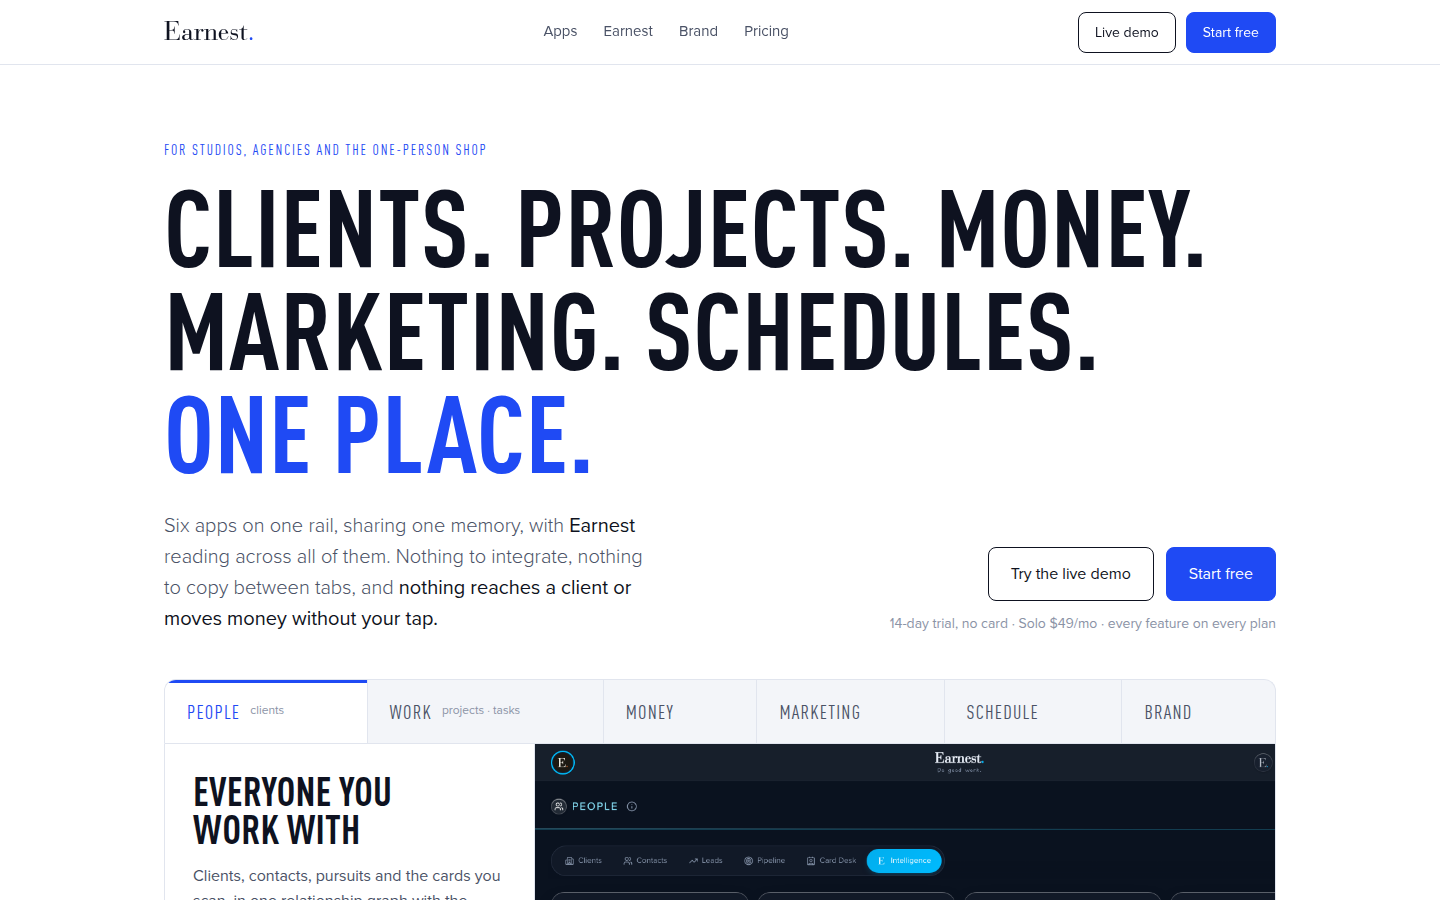
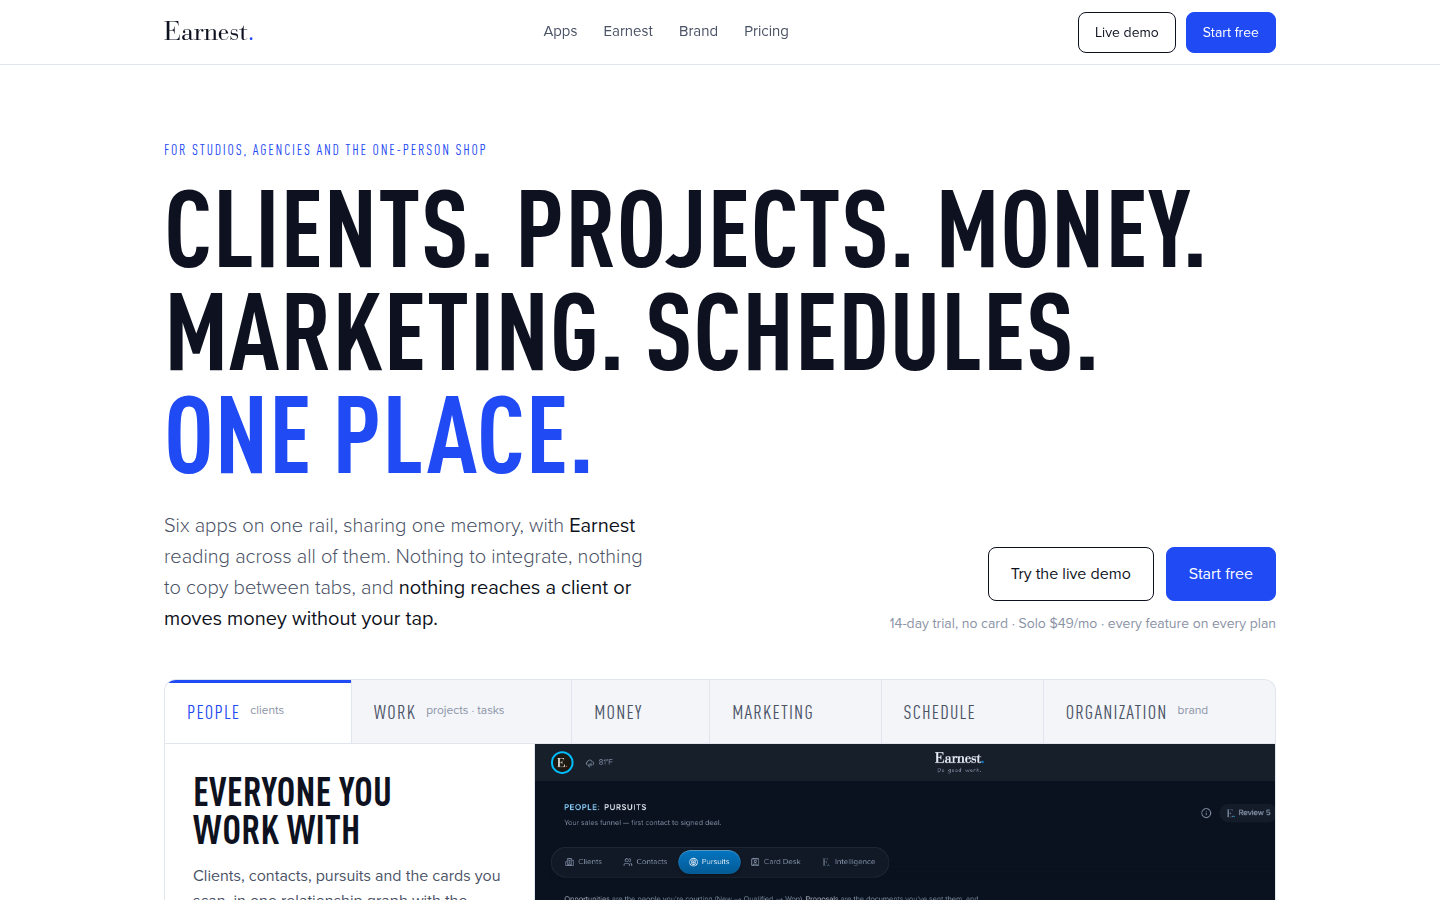
fix(mockups): use only the September captures; document the July gap
latest/ is a mirror, not one capture: 39 of its 64 files are still July
2026 shots of the old shell, and seven of them had leaked into the
concepts. Every screenshot the mockups reference is now from the
1 September 2026 run. Where the September pass has no capture (calendar,
organization brand settings, proposal preview) the concepts use the
nearest September screen or a coded card, and the README lists each swap
so the capture script can fill the gaps.

Claude-Session: https://claude.ai/code/session_0118qsSvWxcWCHXC2y1mfa98

diff --git a/mockups/2026-09-redesign/concept-b.html b/mockups/2026-09-redesign/concept-b.html
@@ -231,17 +231,17 @@ footer a{margin-right:18px}
         <button class="tab" role="tab" aria-selected="false" data-i="2">Money</button>
         <button class="tab" role="tab" aria-selected="false" data-i="3">Marketing</button>
         <button class="tab" role="tab" aria-selected="false" data-i="4">Schedule</button>
-        <button class="tab" role="tab" aria-selected="false" data-i="5">Brand</button>
+        <button class="tab" role="tab" aria-selected="false" data-i="5">Organization <span class="k">brand</span></button>
       </div>
       <div class="stage">
         <div class="side" id="side"></div>
         <div class="view" id="view">
-          <img src="shots/people-dashboard.png" alt="People app: clients, contacts, pursuits and intelligence" class="on">
-          <img src="shots/project-workspace.png" alt="Work app: a project workspace" loading="lazy">
-          <img src="shots/financials-overview.png" alt="Money app: cash flow, AR aging" loading="lazy">
+          <img src="shots/pursuits-lens.png" alt="People app: pursuits from first contact to signed deal" class="on">
+          <img src="shots/shell-dock.png" alt="Work app: projects on a timeline" loading="lazy">
+          <img src="shots/revenue-certainty.png" alt="Money app: revenue certainty, banked to cold" loading="lazy">
           <img src="shots/studio-river.png" alt="Marketing: the Content Studio river" loading="lazy">
-          <img src="shots/scheduler-day.png" alt="Calendar and scheduling" loading="lazy">
-          <img src="shots/organization-branding.png" alt="Organization: brand direction and document theme" loading="lazy">
+          <img src="shots/booking-page.png" alt="A public booking page with the studio card beside it" loading="lazy">
+          <img src="shots/files-floor.png" alt="Organization app: members, teams, files, templates, billing" loading="lazy">
         </div>
       </div>
     </div>
@@ -264,11 +264,11 @@ footer a{margin-right:18px}
     <p class="sub">Every surface is a working one. Approve from the home, send from the proposal, reschedule from a sentence. The numbers below are from the live demo workspace.</p>
     <div class="bento">
       <div class="tile w3"><div class="im"><img src="shots/home-v2.png" alt="The home: Decide, Do, Know" loading="lazy"></div><div class="t"><h3>Tasks, sorted into three piles</h3><p>Decide is what Earnest drafted for you. Do is one tap each. Know needs nothing. Ranked instantly, across every app, with zero AI tokens.</p></div></div>
-      <div class="tile w3"><div class="im"><img src="shots/project-timeline.png" alt="A project timeline" loading="lazy"></div><div class="t"><h3>Projects with real parity</h3><p>Timeline, board, tickets, approvals, meetings, files and time on every project. Move a date and every dependency moves with it.</p></div></div>
+      <div class="tile w3"><div class="im"><img src="shots/approvals-floor.png" alt="Work: the approvals floor" loading="lazy"></div><div class="t"><h3>Projects with real parity</h3><p>Timeline, board, tickets, approvals, meetings, files and time on every project. Work waiting on a yes, and what came back, on one floor.</p></div></div>
       <div class="tile w2"><div class="t"><div class="n">4<small>clients 140+ days quiet</small></div><h3>Clients</h3><p>Pursuits from first contact to closed-won, a deal timeline, and a cold-contact alert before the silence costs you.</p></div></div>
       <div class="tile w2"><div class="t"><div class="n">$12k<small>out · $9.4k past 90 days</small></div><h3>Money</h3><p>Cash flow, AR aging, invoices, payments, expenses and bank sync. Real bookkeeping, sorted by certainty.</p></div></div>
       <div class="tile w2"><div class="t"><div class="n">5<small>posts this week, 4 scheduled</small></div><h3>Marketing</h3><p>A marketing pulse, campaigns, email, and a Content Studio where posts get written in the client’s voice and approved.</p></div></div>
-      <div class="tile w3"><div class="im"><img src="shots/scheduler-day.png" alt="Calendar with follow-ups and pipeline" loading="lazy"></div><div class="t"><h3>Schedules that follow the work</h3><p>Calendar, booking page, instant video, follow-ups, and an AI recap after every meeting that becomes tasks on the right project.</p></div></div>
+      <div class="tile w3"><div class="im"><img src="shots/booking-page.png" alt="A public booking page with the studio card beside it" loading="lazy"></div><div class="t"><h3>Schedules that follow the work</h3><p>A booking page with your card on it, a calendar, instant video, follow-ups, and an AI recap after every meeting that becomes tasks on the right project.</p></div></div>
       <div class="tile w3"><div class="im"><img src="shots/client-portal.png" alt="The client portal" loading="lazy"></div><div class="t"><h3>Yours, all the way to the client</h3><p>A portal where clients approve work, sign, and pay. On Agency, white-labelled so they only ever see you.</p></div></div>
     </div>
   </div>

diff --git a/mockups/2026-09-redesign/concept-a.html b/mockups/2026-09-redesign/concept-a.html
@@ -346,12 +346,12 @@ footer a{margin-right:18px}
     <h2 style="margin-top:14px">Everything it knows,<br>it knows because <span class="pop">you run the studio here.</span></h2>
     <p class="sub">Clients, work, chat, money, marketing and schedules are not integrations. They are the apps on the rail, and Earnest reads across all of them.</p>
     <div class="apps">
-      <a class="app" href="https://app.earnest.guru/try-demo?persona=solo"><div class="im"><img src="shots/people-dashboard.png" alt="People app: clients, contacts, pursuits and intelligence" loading="lazy"></div><div class="l"><b>People</b><span>Clients, contacts, pursuits, cold-contact alerts</span></div></a>
-      <a class="app" href="https://app.earnest.guru/try-demo?persona=solo"><div class="im"><img src="shots/project-workspace.png" alt="Work app: a project workspace" loading="lazy"></div><div class="l"><b>Work</b><span>Projects, tasks, tickets, approvals, time</span></div></a>
-      <a class="app" href="https://app.earnest.guru/try-demo?persona=solo"><div class="im"><img src="shots/scheduler-day.png" alt="Calendar and scheduling" loading="lazy"></div><div class="l"><b>Schedule</b><span>Calendar, meetings, booking page, AI recap</span></div></a>
-      <a class="app" href="https://app.earnest.guru/try-demo?persona=solo"><div class="im"><img src="shots/financials-overview.png" alt="Money app: cash flow overview" loading="lazy"></div><div class="l"><b>Money</b><span>Cash flow, AR aging, invoices, proposals</span></div></a>
+      <a class="app" href="https://app.earnest.guru/try-demo?persona=solo"><div class="im"><img src="shots/pursuits-lens.png" alt="People app: pursuits from first contact to signed deal" loading="lazy"></div><div class="l"><b>People</b><span>Clients, contacts, pursuits, cold-contact alerts</span></div></a>
+      <a class="app" href="https://app.earnest.guru/try-demo?persona=solo"><div class="im"><img src="shots/shell-dock.png" alt="Work app: projects on a timeline" loading="lazy"></div><div class="l"><b>Work</b><span>Projects, tasks, tickets, approvals, time</span></div></a>
+      <a class="app" href="https://app.earnest.guru/try-demo?persona=solo"><div class="im"><img src="shots/booking-page.png" alt="A public booking page with the studio card beside it" loading="lazy"></div><div class="l"><b>Schedule</b><span>Booking page, calendar, meetings, AI recap</span></div></a>
+      <a class="app" href="https://app.earnest.guru/try-demo?persona=solo"><div class="im"><img src="shots/revenue-certainty.png" alt="Money app: revenue certainty, banked to cold" loading="lazy"></div><div class="l"><b>Money</b><span>Certainty, cash flow, AR aging, invoices, proposals</span></div></a>
       <a class="app" href="https://app.earnest.guru/try-demo?persona=solo"><div class="im"><img src="shots/studio-river.png" alt="Marketing Studio river timeline" loading="lazy"></div><div class="l"><b>Marketing</b><span>Pulse, campaigns, email, Content Studio</span></div></a>
-      <a class="app" href="https://app.earnest.guru/try-demo?persona=solo"><div class="im"><img src="shots/organization-branding.png" alt="Organization brand and document theme settings" loading="lazy"></div><div class="l"><b>Brand</b><span>Direction, voice, document themes, white-label</span></div></a>
+      <a class="app" href="https://app.earnest.guru/try-demo?persona=solo"><div class="im"><img src="shots/files-floor.png" alt="Organization app: members, teams, files, templates, billing" loading="lazy"></div><div class="l"><b>Organization</b><span>Brand direction, voice, document themes, white-label</span></div></a>
     </div>
   </div>
 </section>

diff --git a/mockups/2026-09-redesign/concept-c.html b/mockups/2026-09-redesign/concept-c.html
@@ -242,7 +242,7 @@ footer a{margin-right:18px}
               <div><b>You</b><span class="you">Moved one deliverable to phase two. Sent it to the portal for signature.</span></div>
             </div>
           </div>
-          <div class="proof crop"><img src="shots/proposals-preview.png" alt="A proposal preview, themed" loading="lazy"></div>
+          <div class="proof"><div class="card"><div class="h"><span>Proposal · draft · Editorial theme</span><span>Money</span></div><q style="font-family:var(--font-display);font-size:22px;line-height:1.15;margin-bottom:6px">Brand refresh &amp; website</q><q style="color:var(--ink-3);font-size:13px;letter-spacing:.1em;text-transform:uppercase;margin-bottom:12px">Prepared for Helios · #EX-0042</q><q style="margin-bottom:10px">Helios, you asked for a site that books rooms without a phone call. Here is the plan, in three phases, each one something you can see before you pay for the next.</q><div class="row"><span>Phase 1 · Brand identity system</span><span>$6,500</span></div><div class="row"><span>Phase 2 · Booking-first website</span><span>$12,000</span></div><div class="row"><span>Phase 3 · Launch playbook</span><span>$2,800</span></div><div class="act"><a class="btn primary" href="https://app.earnest.guru/try-demo?persona=solo">Send for signature</a><a class="btn" href="#">Edit phases</a></div></div></div>
         </div>
       </article>
 

diff --git a/mockups/2026-09-redesign/index.html b/mockups/2026-09-redesign/index.html
@@ -200,7 +200,7 @@ tr:last-child td,tr:last-child th{border-bottom:0}
     <p>All three are static HTML in <code>mockups/2026-09-redesign/</code> in the marketing repo, built on the same screenshots, fonts, plans and FAQ answers the live site already ships, so any of them ports into <code>SellSheetHome.vue</code> with the existing data files.</p>
   </section>
 
-  <p class="foot">Screenshots are the September 2026 captures from the demo workspaces. Copy uses the demo’s clients (Helios, Pinecrest Clinic, Meridian Law, Atlas Fintech) and its numbers ($12k outstanding, $286k pipeline, 22 items today).</p>
+  <p class="foot">Every screenshot is from the 1 September 2026 capture of the demo workspaces, the current shell. The <code>latest/</code> folder still carries July captures of screens the September pass did not cover (the calendar, the organization brand settings, the proposal preview, the People overview, the Money cash-flow tab); those are not used here, and the mockups use a coded card where no current capture exists. Re-running the capture script against the live demo will fill them. Copy uses the demo’s clients (Helios, Pinecrest Clinic, Meridian Law, Atlas Fintech) and its numbers ($12k outstanding, $286k pipeline, 22 items today).</p>
 </div>
 </body>
 </html>

diff --git a/mockups/2026-09-redesign/README.md b/mockups/2026-09-redesign/README.md
@@ -6,8 +6,31 @@ recommendation. Open `index.html` in a browser; it links to the three concepts.
 
 Nothing in this folder is wired into the Nuxt build. It is static HTML for
 review. `shots/` and `fonts/` are symlinks into `public/screenshots/latest/`
-and `app/assets/css/fonts/`, so the mockups use the same September 2026
-captures and the same brand faces the live site ships.
+and `app/assets/css/fonts/`, so the mockups use the same brand faces the live
+site ships.
+
+## Screenshots: only the September pass
+
+`public/screenshots/latest/` is a mirror, not a single capture. Tracing each
+file back to its dated folder shows the 1 September 2026 run covered 25
+screens; the other 39 files in `latest/` are still July 2026 captures of the
+old shell. The mockups link only September files (the `shots/` symlinks are
+exactly that set). Where a screen has no September capture, the mockup uses a
+coded card instead:
+
+| Screen | Newest capture | Used instead |
+| --- | --- | --- |
+| Calendar (`scheduler-day`) | July | `booking-page` (September) |
+| Organization brand settings (`organization-branding`) | July | `files-floor` (September, the Organization app) |
+| Proposal preview (`proposals-preview`) | July | a coded, themed proposal card |
+| People overview (`people-dashboard`) | July | `pursuits-lens` (September) |
+| Money cash flow (`financials-overview`) | July | `revenue-certainty` (September) |
+| Project workspace / timeline | July | `shell-dock`, `approvals-floor` (September) |
+
+To close the gaps, re-run the capture script from the app repo against the
+live demo (`APP_URL=https://app.earnest.guru`, with the demo passwords), then
+add `scheduler-day`, `organization-branding` and `proposals-preview` back to
+the concepts.
 
 ## What every concept has to sell
 
